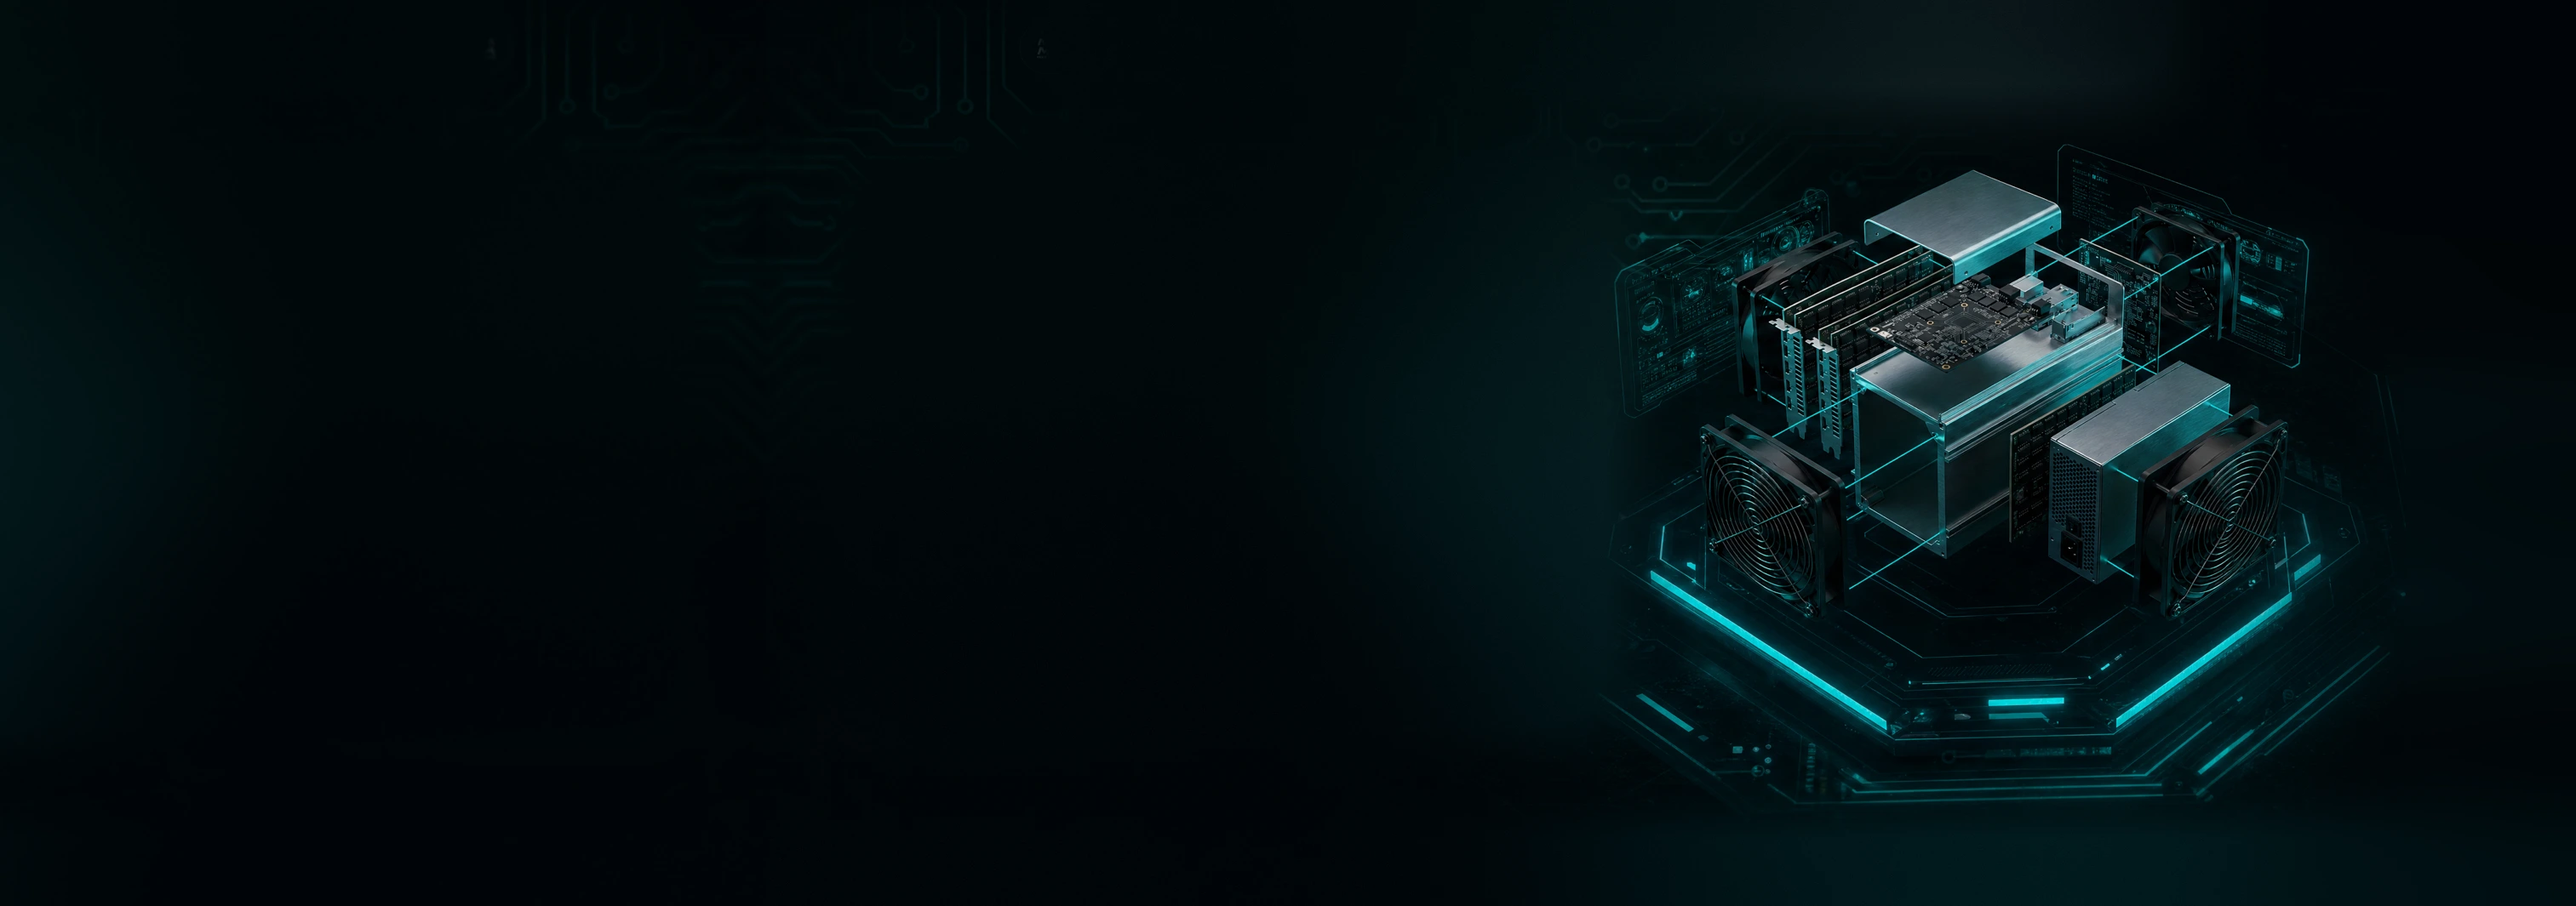
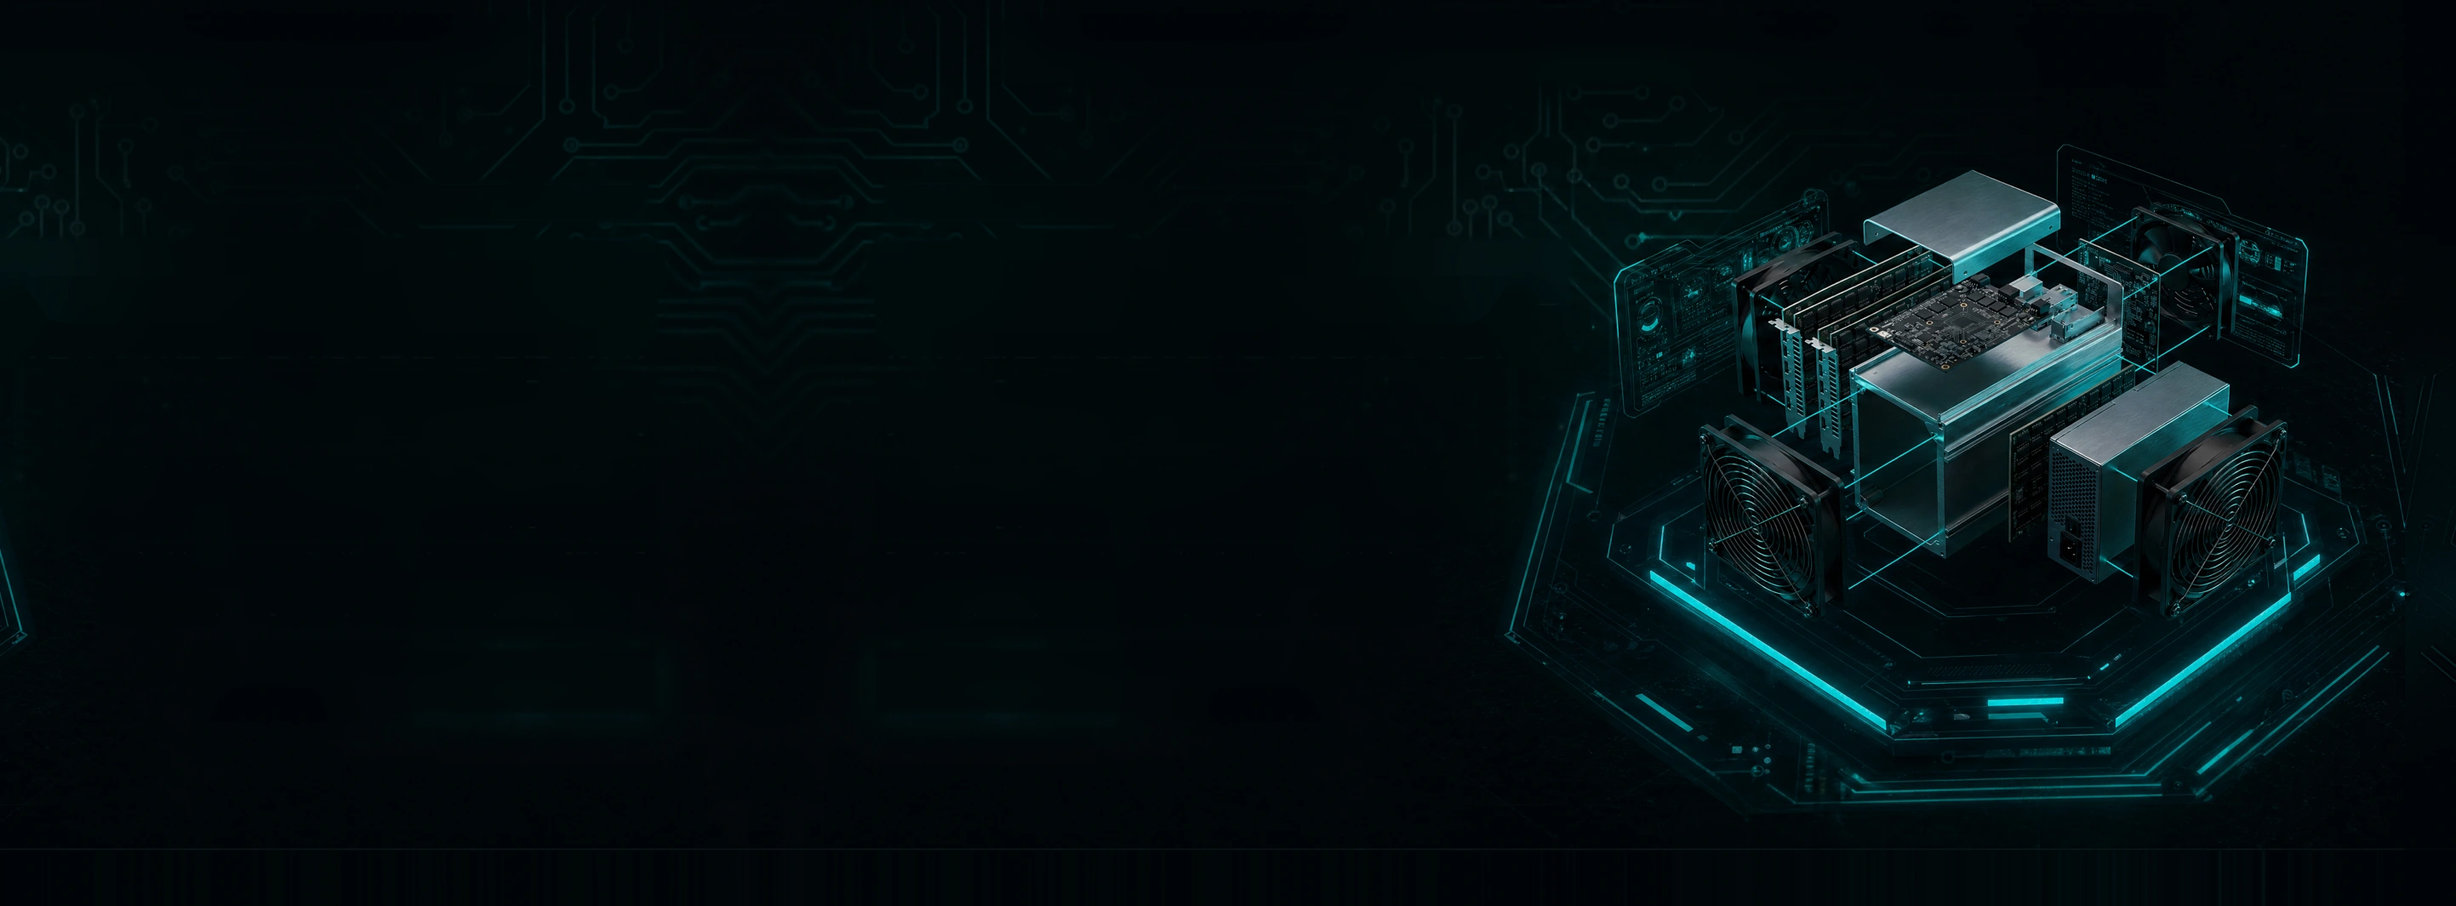
Revert "Hero: smooth background behind the text and machine moved left"
This reverts commit bf345b9a1c722e17b3dfc953f24b80a4a0d1493b.

Changed region(s): [[0.6237, 0.1859, 0.9667, 0.8986]]

diff --git a/src/styles.css b/src/styles.css
@@ -6824,11 +6824,3 @@ h1, main h2, .wh-bar__title { text-transform: uppercase; }
   #calculator .calc__profit .ledger > div { padding-top: calc(4 * var(--c)); padding-bottom: calc(4 * var(--c)); }
   #calculator .payback { margin-top: 0; padding-top: 0; }
 }
-/* Hero: wider plate (soft fade on the right) so the machine sits further left. */
-@media (min-width: 1025px) {
-  .hero { background-size: calc(3026 * var(--h)) auto !important; background-position: right top !important; }
-  .hero__media { right: calc(200 * var(--h)) !important; }
-}
-@media (min-width: 1025px) {
-  .hero__media img { -webkit-mask-image: radial-gradient(ellipse 62% 60% at 52% 50%, #000 70%, transparent 100%); mask-image: radial-gradient(ellipse 62% 60% at 52% 50%, #000 70%, transparent 100%); }
-}
